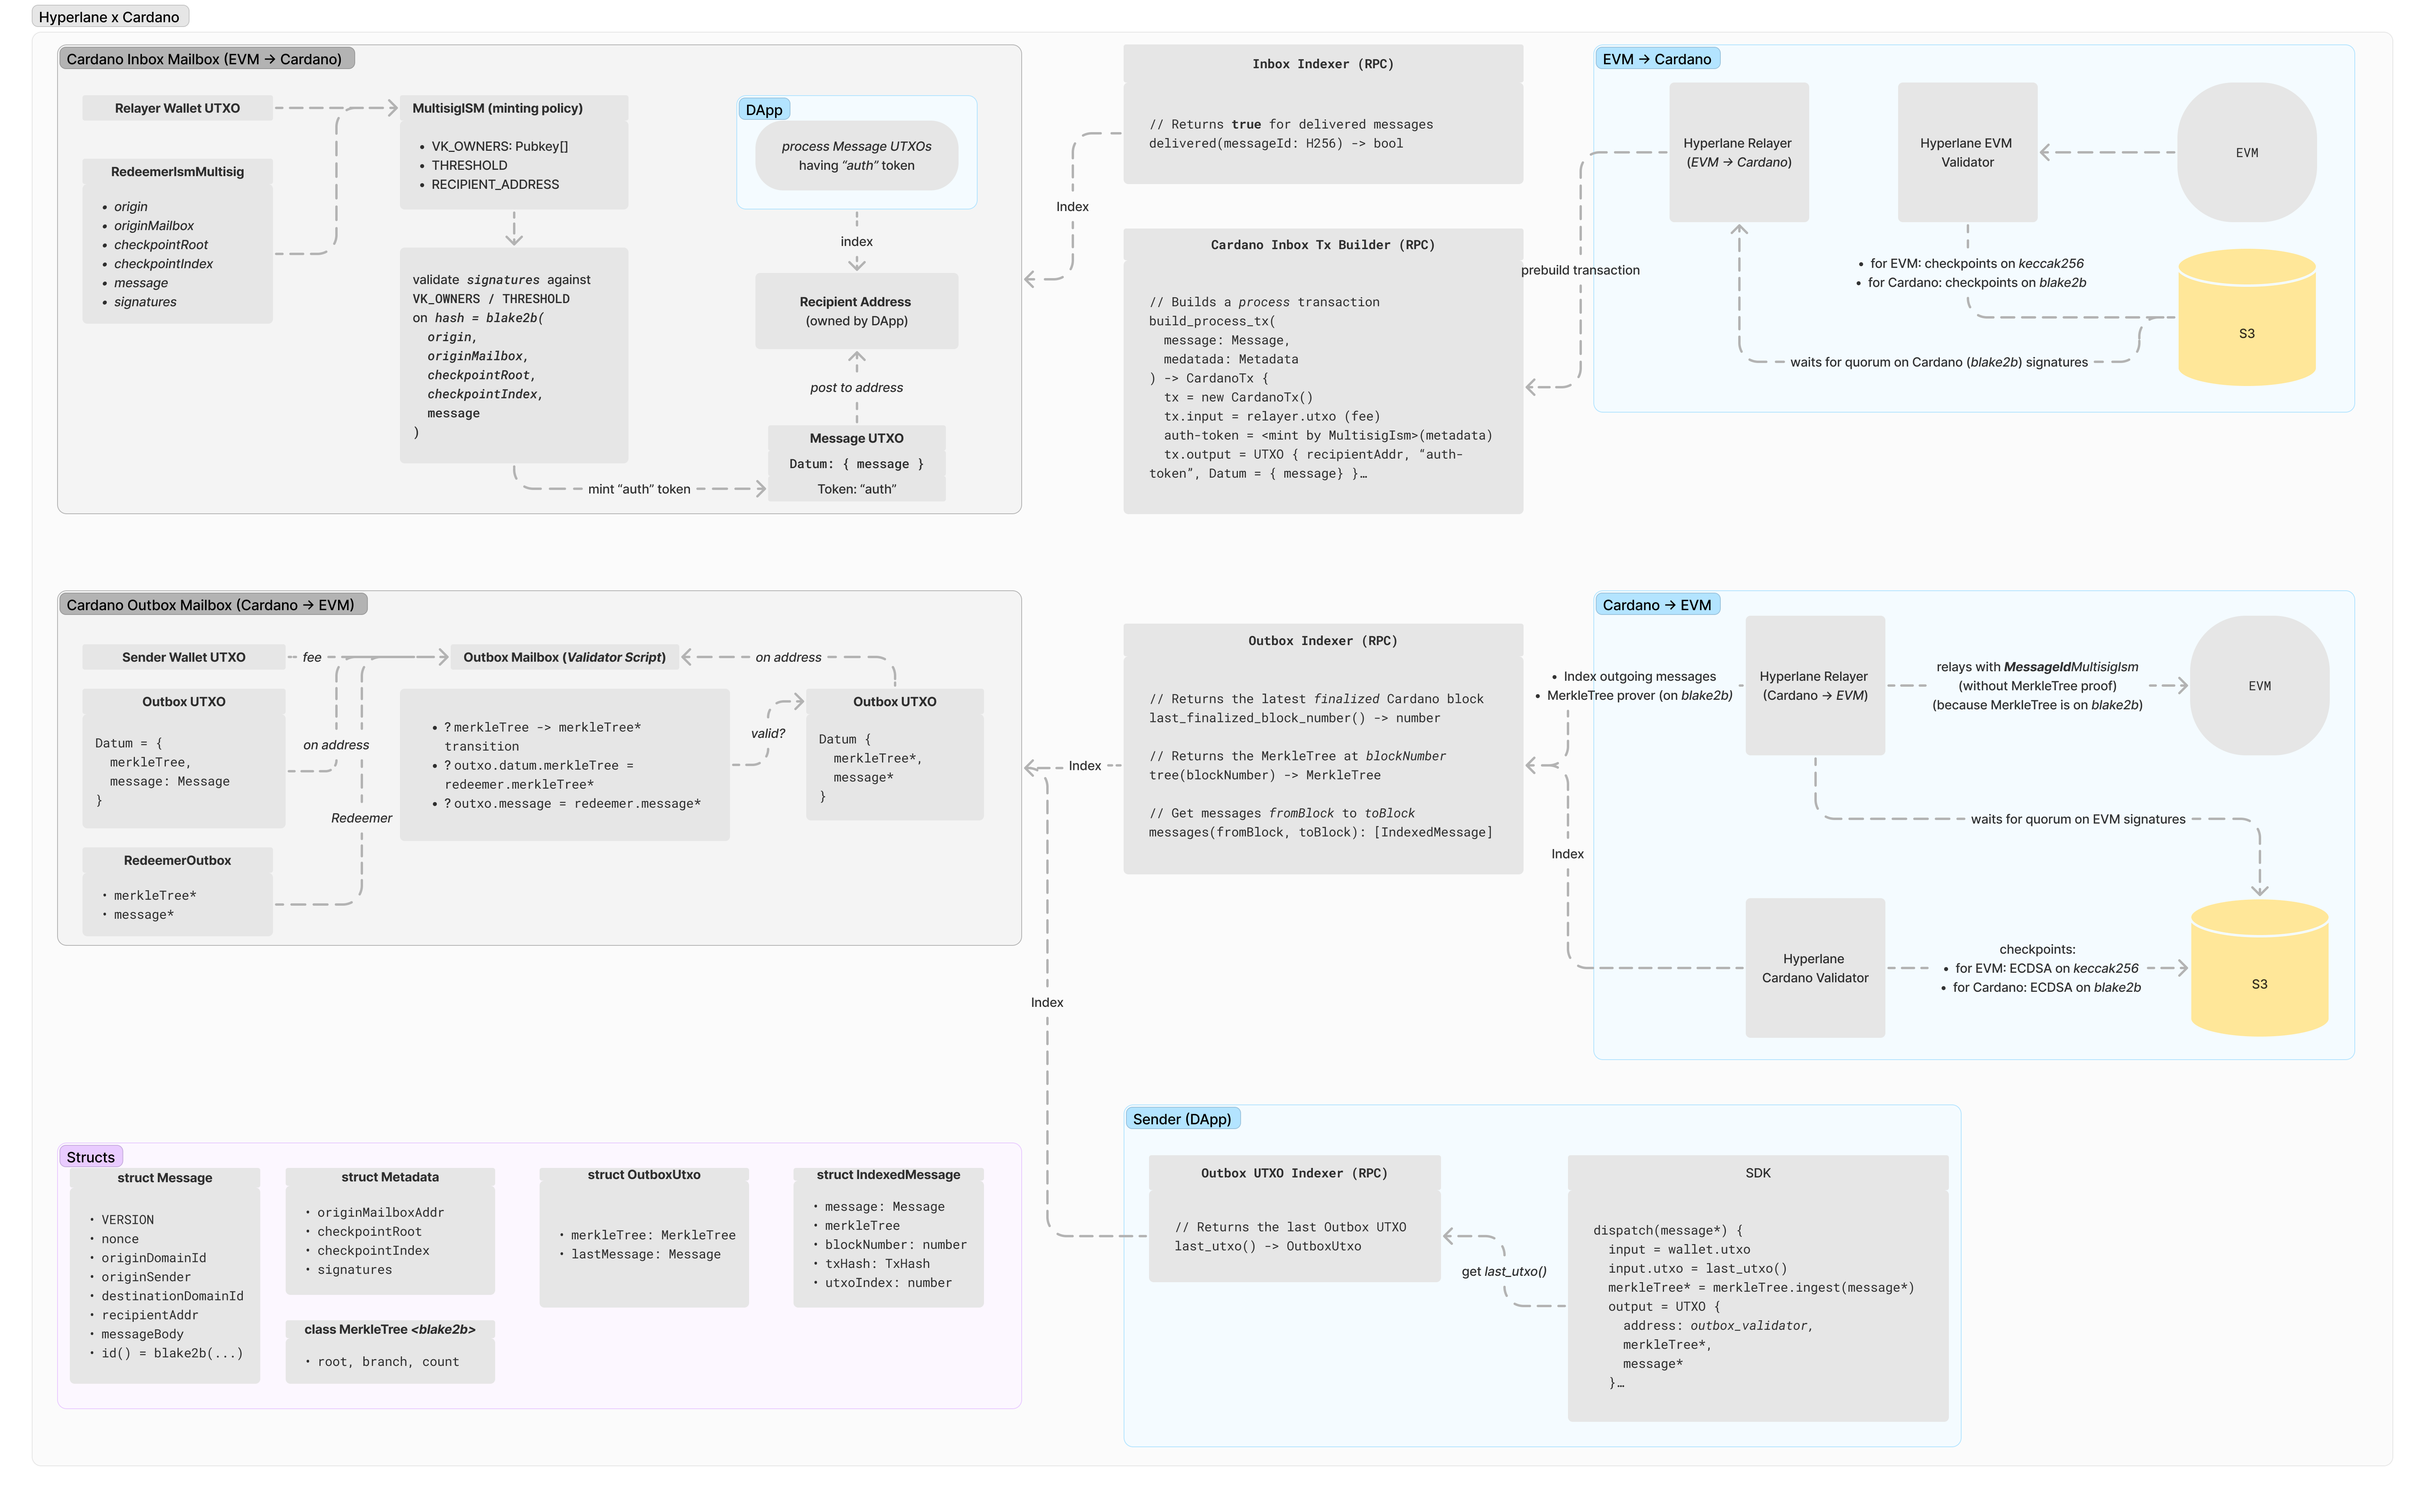
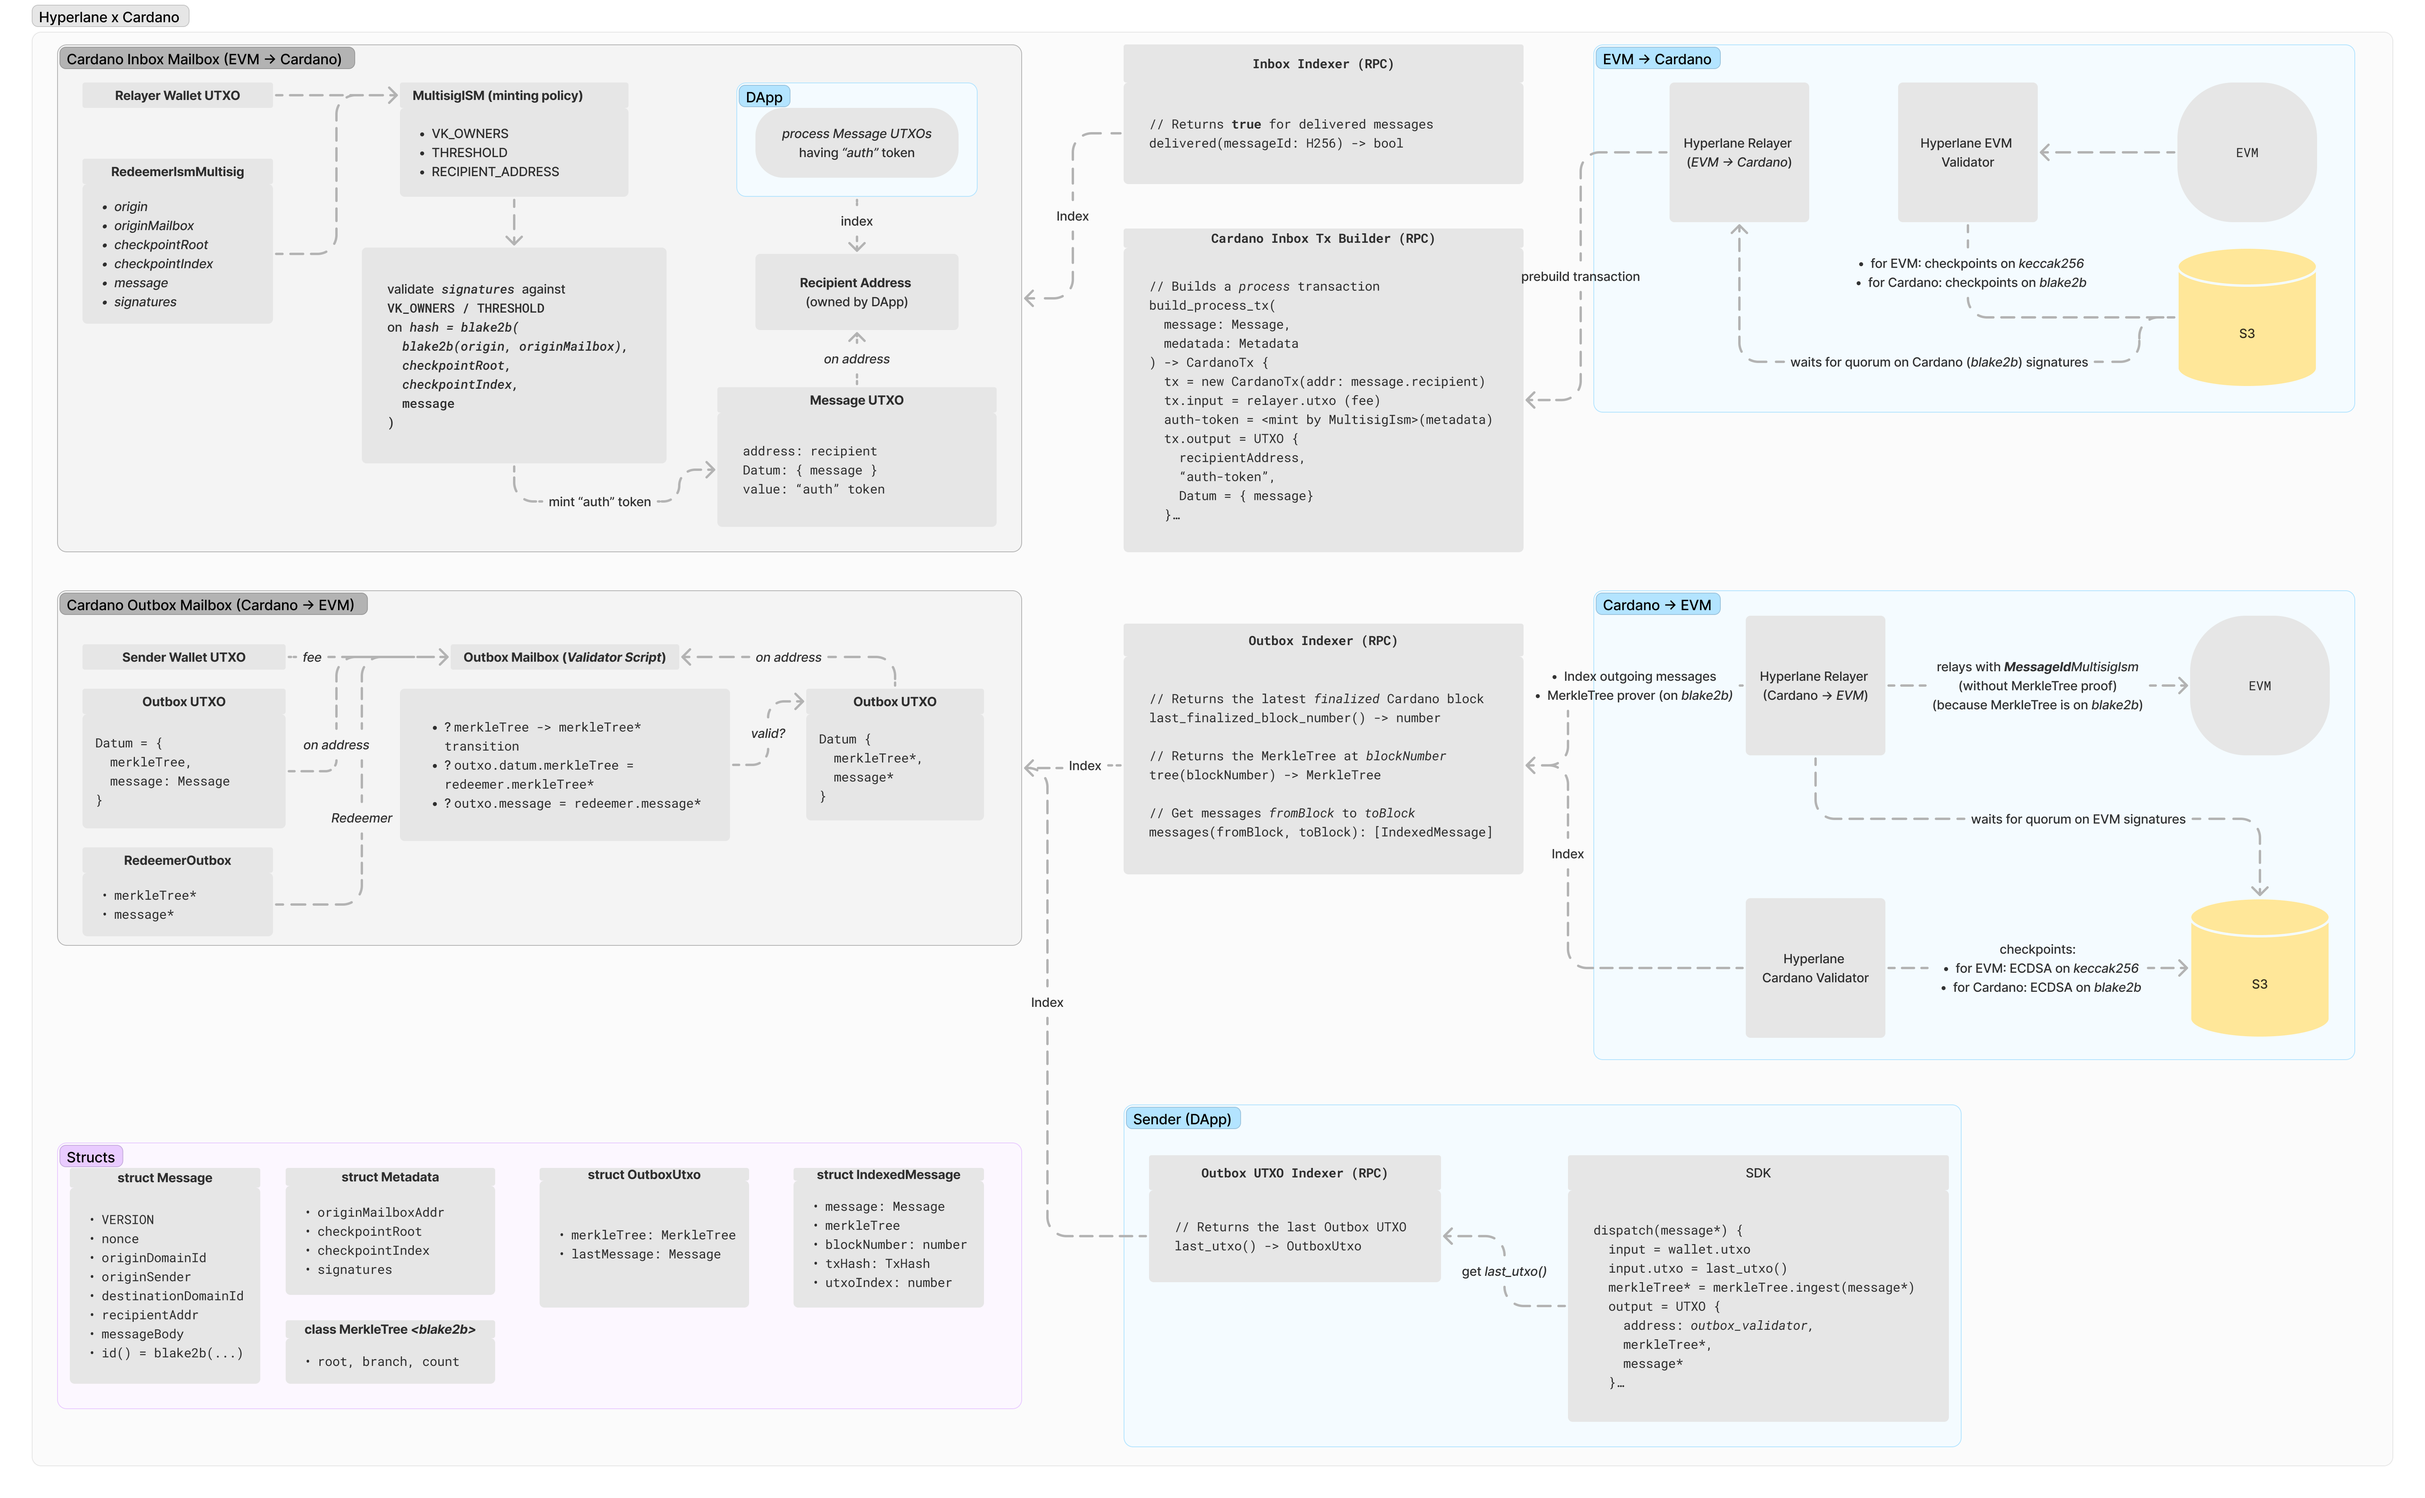
docs: CR comments.

diff --git a/docs/design.md b/docs/design.md
@@ -21,14 +21,16 @@ Transaction {
 validate(transaction: Transaction) -> true | false
 
 EUTxO {
+    // Address that can spend this UTXO
+    address
     // Hash of the transaction in which this EUTxO was produced 
     txHash
     // Index of EUTxO inside the producing transaction
     txIndex
-    // Tokens minted in this transaction
-    tokens
+    // Value carried on in this transaction (ADA or tokens)
+    value
     // Payload attached to the EUTxO
-    datum: Datum = <arbitrary data>
+    datum = <arbitrary data to be used in the next transactions>
 }
 ```
 
@@ -112,7 +114,7 @@ To deliver a message sent from an EVM chain, the relayer builds a transaction:
 - the output EUTxO is posted to the `RECIPIENT_ADDR` for later processing by a DApp
 
 The `MultisigIsm` minting policy is parameterized by:
-- `VK_OWNERS: Pubkey[]` — public keys of the expected validators
+- `VK_OWNERS` — public keys of the expected validators
 - `THRESHOLD` — the validators' quorum threshold
 - `RECIPIENT_ADDRESS` — the recipient of output (message) EUTxO
 
